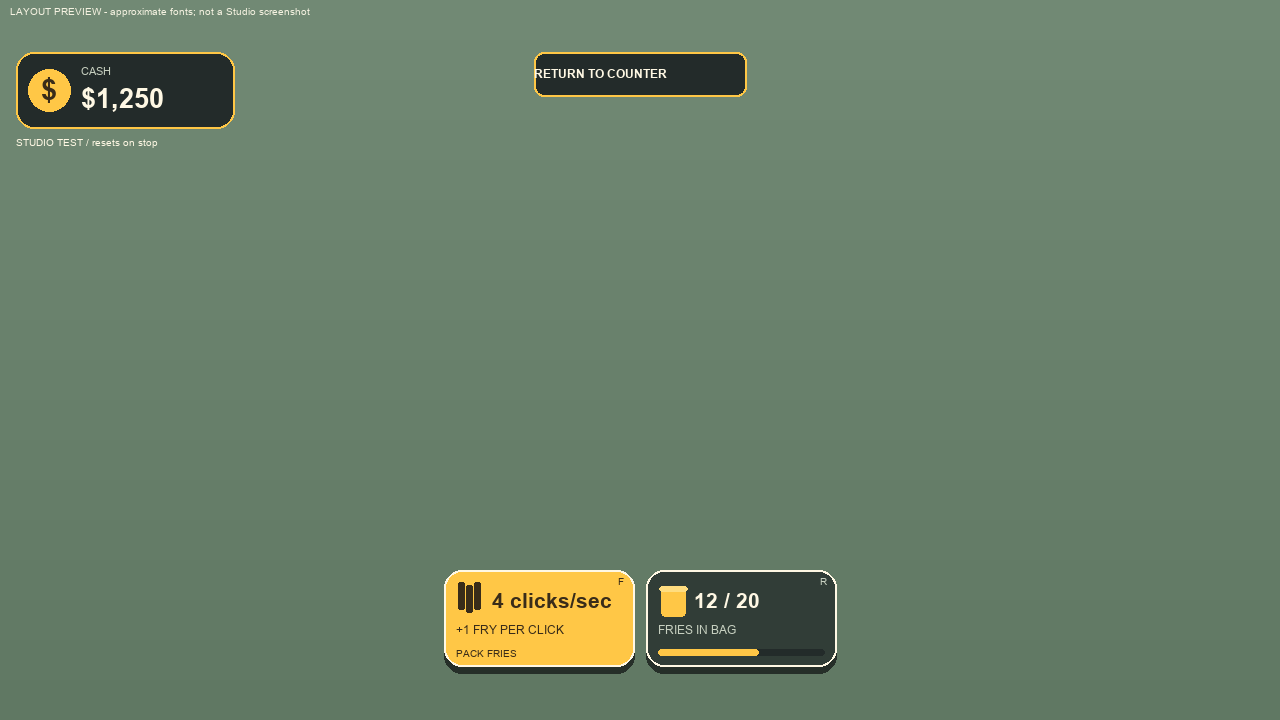
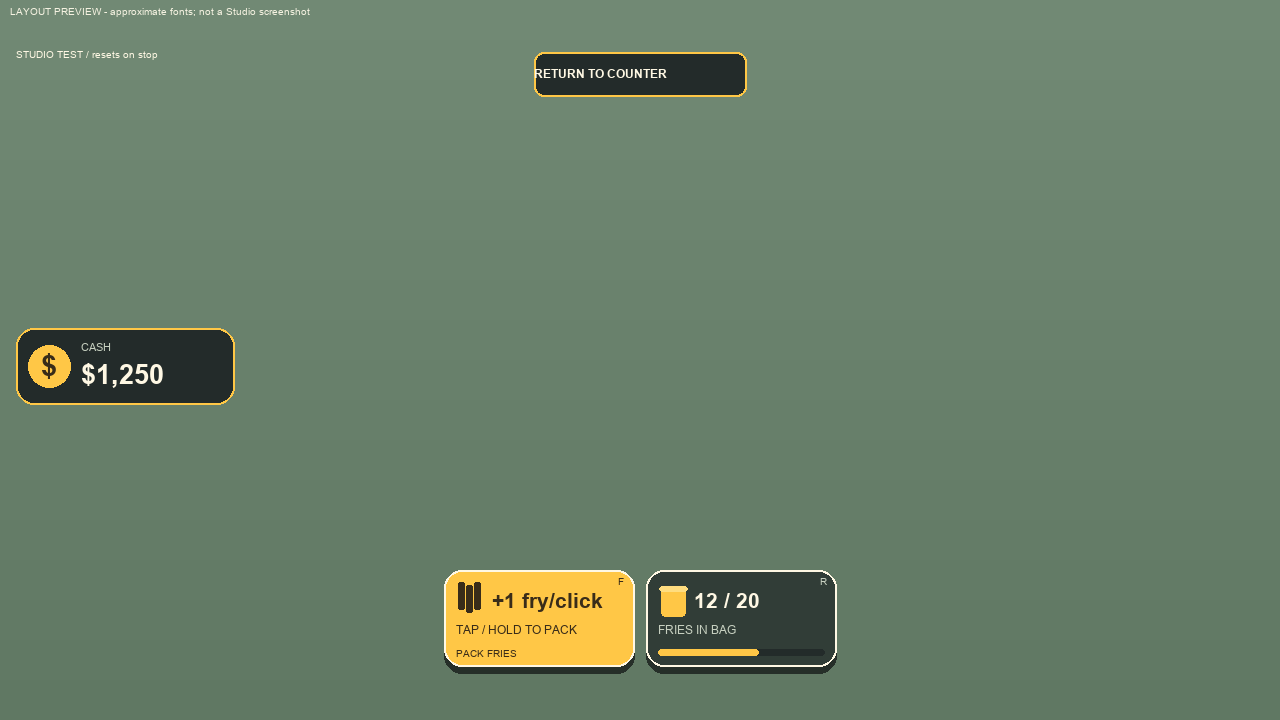
Made the UI more "smooth", added a boundary to better limit the playing field. Will now work on extending the gameplay features. Basic UI/UX is more or less settled, can be refined further on

Changed region(s): [[0.0, 0.0611, 0.1875, 0.2139], [0.0, 0.4583, 0.1875, 0.5806], [0.3438, 0.825, 0.4688, 0.8861]]

diff --git a/tools/build.py b/tools/build.py
@@ -43,7 +43,9 @@ def build():
     for parent, name in ((shared, "shared"), (server, "server"), (client, "client")):
         add_sources(parent, ROOT / "src" / name)
     item(root, "StarterGui", "StarterGui")
-    item(root, "Lighting", "Lighting")
+    lighting = item(root, "Lighting", "Lighting")
+    # Editor-only property: normal game scripts cannot set LightingStyle.
+    ET.SubElement(lighting.find("Properties"), "token", {"name": "LightingStyle"}).text = "1"  # Soft
     item(root, "Players", "Players")
     sound = item(root, "SoundService", "SoundService")
     ET.SubElement(sound.find("Properties"), "bool", {"name": "RespectFilteringEnabled"}).text = "true"
@@ -59,6 +61,7 @@ def build():
     assert sorted(actual) == sorted(expected), "Embedded source differs from source files"
     assert len(parsed.findall(".//Item[@class='Script']")) == 1
     assert len(parsed.findall(".//Item[@class='LocalScript']")) == 1
+    assert parsed.findtext(".//Item[@class='Lighting']/Properties/token[@name='LightingStyle']") == "1"
     print(f"Built {output.name}: {len(actual)} source files, XML and source round-trip verified.")
 
 

diff --git a/VALIDATION.md b/VALIDATION.md
@@ -2,11 +2,11 @@
 
 Validation date: 8 October 2026.
 
-Scope: the owner-approved UI/UX iteration on the working core loop. Base packing, fryer production after claiming, and $10 sales are unchanged.
+Scope: the owner-approved UI/UX iteration on the working core loop, including the smooth cartoon world pass. Base packing, fryer production after claiming, and $10 sales are unchanged.
 
 ## Automated results
 
-**40 tests passed, 0 failed.** All **27 Luau source/test files** compiled. The rebuilt place contains **24 game source files**. Output is recorded in TEST_RESULTS.txt.
+**41 tests passed, 0 failed.** All **27 Luau source/test files** compiled. The rebuilt place contains **24 game source files**. Output is recorded in TEST_RESULTS.txt.
 
 Coverage includes:
 
@@ -17,10 +17,17 @@ Coverage includes:
 - Session claims survive respawn and release on departure; a replacement player can claim the released plot.
 - Separate private state, owner-only work/teleport, basic fixed rates, and rejection of retired actions.
 - Six separated restaurant plots with inward-facing entrances, physical wall signage, and no fryer name labels.
-- Three permanent HUD actions, Cash formatting, hover labels, embedded bag capacity, full-bag sell state, E reserved for claiming, and R for selling.
+- Ceiling coverage/headroom and wall joins across all six restaurants; solid perimeter alignment, corner overlap, and clearance outside every plot.
+- Three permanent HUD actions, middle-left Cash placement/formatting, fries-per-click hover labels, embedded bag capacity, full-bag sell state, E reserved for claiming, and R for selling.
 - Calculated HUD bounds for 320x568, 390x844, 568x320, 844x390, and 1280x720.
 
-The builder verifies XML parsing and exact source round-tripping.
+The builder verifies XML parsing, exact source round-tripping, and the saved Soft LightingStyle setting.
+
+### Startup regression after the cartoon pass
+
+The owner reported missing restaurant claiming and HUD elements. The cartoon pass wrote LightingStyle from WorldBuilder at runtime, before the server created remotes or connected claiming. Roblox documents this as an editor-only property. The prior engine double accepted arbitrary property writes and missed this failure.
+
+The engine double now rejects runtime writes to editor-only lighting settings. Before the fix, the startup test failed at LightingStyle and FriesRemotes was absent, reproducing the broken startup path. After moving LightingStyle into the saved place builder and Rojo configuration, all 40 tests pass, including startup, claiming, client HUD creation, and fill/sell behavior. Studio verification of the rebuilt place remains pending.
 
 ## Visual layout review
 
@@ -28,7 +35,11 @@ Desktop, portrait-phone, and landscape-phone previews were generated from the ac
 
 These previews use approximate fonts and a neutral background. They are not Roblox screenshots and do not validate real engine layering, world appearance, Roblox mobile controls, or interaction.
 
+The subsequent world art pass replaces textured materials with SmoothPlastic, refreshes the colors, rounds plaza bushes, and applies Soft lighting with brighter ambient light and reduced reflections. It does not change the HUD, so the HUD previews were not regenerated for this pass. Compilation and mocked world construction are checked automatically; real lighting, surface appearance, and graphics-quality differences still need the Studio checks. No real-engine visual result is claimed.
+
 ## Remaining Studio checks
+
+The latest pass changes the plaza and walkways to brown, adds cream ceilings with colored roof caps, raises side walls to meet them, and encloses the map with solid hedge walls. Automated geometry checks cover containment and ceiling coverage, but ceiling camera behavior, interior brightness, and boundary collisions/jumping still require Studio playtesting.
 
 The project owner confirmed the preceding core version works. This new claiming/layout/HUD iteration has not been playtested by the agent in Roblox Studio. No real DataStore calls were made. Run docs/STUDIO_TESTS.md before accepting this iteration, especially simultaneous claims, mobile prompts, camera/walkability, and multiplayer ownership.
 
@@ -37,3 +48,6 @@ The project owner confirmed the preceding core version works. This new claiming/
 - Native keyboard/touch claiming prompts: https://create.roblox.com/docs/ui/proximity-prompts
 - Prompt properties/events: https://create.roblox.com/docs/reference/engine/classes/ProximityPrompt
 - Wall-bound text: https://create.roblox.com/docs/reference/engine/classes/SurfaceGui
+- Surface materials: https://create.roblox.com/docs/parts/materials
+- Soft lighting and environment settings: https://create.roblox.com/docs/reference/engine/classes/Lighting
+- Editor-only LightingStyle setting: https://create.roblox.com/docs/effects/light-sources

diff --git a/docs/STUDIO_TESTS.md b/docs/STUDIO_TESTS.md
@@ -5,6 +5,7 @@ The project owner confirmed the prior core version works. These checks cover the
 ## Arrival and claiming
 
 1. Reopen the rebuilt FriesGame.rbxlx and press Play. The restaurant district must appear without Output errors.
+   Confirm there is no LightingStyle permission error or infinite wait for FriesRemotes; the packing/selling buttons and middle-left Cash card must appear immediately. LightingStyle is stored in the place, not assigned by a running script.
 2. Arrive in the central plaza with no restaurant assigned. All six restaurant entrances should be available, with no floating fryer labels anywhere.
 3. Confirm packing, selling, and Return to Counter are inactive before claiming. No fries should accumulate before a claim.
 4. Walk to any available entrance. Press E, tap the native prompt on a phone, or use the displayed gamepad input. Confirm ownership appears on the building and you arrive at its counter.
@@ -18,19 +19,29 @@ The project owner confirmed the prior core version works. These checks cover the
 
 - Inspect all six restaurants, facing the central promenade in two rows of three.
 - Walk from the plaza into every entrance, around the counter, and back out. Check floor transitions, hedges, furniture, and camera clearance.
+- Check all six ceilings from inside and outside: walls should meet the ceiling, entrances must stay open, and the camera should remain usable when packing, walking, zooming, and returning to the counter. Check interior brightness on desktop and mobile.
+- Walk the entire outer boundary, including its four corners. Confirm it blocks walking off the map, has no gaps, and leaves space outside the restaurant plots. Check normal jumping against the boundary.
 - Confirm buildings feel separated and the central area remains open. Ask testers whether they can identify an available plot and understand where to go without instructions.
 - Confirm the title is on the physical mural wall, following the wall's perspective rather than facing the camera.
 - Confirm ownership plaques are readable nearby and no floating fryer/equipment name tags or old customer text bubbles return.
 - Verify no doors, shops, progression rewards, or other unrequested systems have been introduced.
 
+## Smooth cartoon world
+
+- Inspect the ground, paths, walls, hedges, tables, fryer, and bag up close. Surfaces should have flat colors without grass, masonry, wood, or metal grain.
+- Confirm the plaza and all connecting/entrance paths are brown, the plaza bushes are rounded, and the coral/mint restaurants remain easy to distinguish from the paths and green plots.
+- Check that the fryer, bag, fries, wall title, and ownership text remain readable in both sun and shadow, without harsh glare or washed-out colors.
+- Compare low and high graphics settings on desktop and a phone. Check moving-camera edge shimmer separately from surface texture; automated tests cannot validate engine antialiasing or shadow rendering.
+- Walk through the district and repeat a fill/sell cycle. Review the actual Play-mode appearance with the owner before adding more art detail.
+
 ## Action buttons and Cash
 
-1. The gold packing button displays the maximum rate of 4 clicks/sec. Hover/select it to see Click. Touch users must retain a visible tap/hold packing hint.
+1. The gold packing button highlights +1 fry/click. Hover/select it to see Click with the yield underneath. The maximum click rate should not appear. Touch users must retain a visible tap/hold packing hint.
 2. Click, hold the button, and hold F. Each should fill the bag at the same existing rates. The basic fryer still adds 0.5 fries/sec after claiming, including while away.
 3. The sell button shows fries/capacity and a progress bar before full. Check empty, partially filled, and nearly full states.
 4. At 20 fries it should become green and read Sell Bag with +$10 Cash. Sell using the button and R. E must only handle claiming and never sell a bag.
 5. Confirm Cash increases by exactly $10, the bag clears, and no Sold message appears underneath the buttons. Repeat rapidly; there must be no duplicate payment.
-6. Check the Cash card, coin symbol, and comma-grouped amount. Verify large amounts fit the card.
+6. Check the middle-left Cash card, coin symbol, and comma-grouped amount, including clearance from the bottom actions on short screens. Verify large amounts fit the card.
 7. Walk away from the counter with a full bag: selling must be disabled and the return instruction should be clear. Return to Counter must target the player's own restaurant.
 8. Confirm useful errors appear briefly near the top, then clear, rather than obscuring the bottom actions.
 9. Confirm Fold, Upgrades, Delivery, Index, and Inventory remain absent, and Q does nothing.

diff --git a/README.md b/README.md
@@ -21,8 +21,10 @@ Develop in small, reviewable iterations. Prove the basic functionality works bef
 - Players enter the central plaza without an assigned restaurant, walk to an available entrance, and press E (or tap the proximity prompt) to claim it.
 - Claiming requires a loaded profile, a living nearby character, an unoccupied plot, and no existing claim. One player owns one restaurant per session; leaving frees it.
 - Six spacious restaurant plots face a central promenade. Ownership is shown on the building; the title is wall art. Never add floating fryer/equipment name tags, now or in future iterations.
-- Packing shows its maximum click rate inside the button and changes to Click on hover/focus. Selling shows bag capacity/progress until full, then Sell Bag and its Cash value.
-- Cash has a visible card, coin symbol, and grouped amount. Successful sales update the card and reset the bag without a bottom message.
+- The world uses smooth, untextured surfaces, bright cartoon colors, rounded plaza bushes, and soft lighting. Check the result in Studio before accepting this visual pass.
+- Brown central paths connect to brown restaurant walkways. Every restaurant has a high ceiling with a colored roof trim, and a continuous solid hedge boundary encloses the playing area.
+- Packing highlights fries per click (currently +1 fry/click) and changes to Click on hover/focus, with the yield retained below. The internal click-rate limit is not shown to players. Selling shows bag capacity/progress until full, then Sell Bag and its Cash value.
+- Cash has a visible card at the middle left, with a coin symbol and grouped amount. On short landscape screens it lifts enough to clear the action buttons. Successful sales update the card and reset the bag without a bottom message.
 - Clicking, holding the button, or holding F adds fries at the player's counter.
 - After claiming, the basic fryer retains its existing online rate of 0.5 fries per second.
 - A bag stops filling at 20 fries.
@@ -35,12 +37,16 @@ Automated checks alone do not finish the iteration. The new claiming/layout/HUD 
 
 Folding, Upgrades, Delivery, Index, and Inventory have been removed from the running game and source modules. Their connected bonus systems—Tickets, random fry variants, discovery rewards, order rewards, and Lunch Rush—are also outside this iteration. They are possible future backlog items, not a commitment to implement them. There are no placeholder menus or active background rewards for these systems.
 
+**Future visual refinement:** replace the current simple fry and bag symbols with more recognizable fries and bag artwork in an agreed later iteration. Keep the current symbols for now.
+
+**World art direction:** aim for a bright, smooth cartoon feel inspired by Pet Simulator. Use SmoothPlastic for code-built surfaces rather than grainy grass, concrete, brick, wood, or metal textures. Favor clear color blocks, warm brown paths, coral/mint restaurants with cream ceilings, and soft lighting with restrained reflections. Solid perimeter hedges frame the district. Detailed rounded restaurant/fryer models remain a later art iteration. No manual Studio asset creation is needed for this pass.
+
 ## Open and play
 
 1. Open **FriesGame.rbxlx** in Roblox Studio using **File > Open from File**.
 2. Press **Play**. The restaurant appears when the server starts.
 3. Walk to a free restaurant entrance and press **E**, or tap the entrance prompt on touch devices. Claiming puts you at its counter.
-4. Hold or tap the gold packing button at the bottom centre. It displays **4 clicks/sec** (the maximum rate) and changes to **CLICK** on hover or selection. Its packing hint stays visible for touch users.
+4. Hold or tap the gold packing button at the bottom centre. It displays **+1 fry/click** and changes to **CLICK** on hover or selection, with the fries-per-click value shown underneath. Its packing hint stays visible for touch users.
 5. The adjacent button shows **fries / capacity** and a progress bar. When full, it turns green and reads **SELL BAG +$10**. Selling requires proximity to your own counter.
 6. Use **RETURN TO COUNTER** at the top to return to your claimed restaurant. It is disabled before you claim.
 

diff --git a/docs/GAME_RULES.md b/docs/GAME_RULES.md
@@ -24,7 +24,7 @@ There are no random variants, folding bonuses, upgrades, Tickets, or event rewar
 
 ## Controls
 
-The packing and selling cards remain at the bottom centre. Packing shows up to 4 clicks/sec and changes to Click on hover/selection. The sell card shows capacity and progress until full, then Sell Bag and +$10 Cash. The Cash card updates directly after a sale; there is no sold-message toast.
+The packing and selling cards remain at the bottom centre. Packing highlights +1 fry/click and changes to Click on hover/selection, retaining the yield underneath. The internal rate limit is not displayed. The sell card shows capacity and progress until full, then Sell Bag and +$10 Cash. The Cash card updates directly after a sale; there is no sold-message toast.
 
 Return to Counter stays at the top and is disabled before claiming. Keyboard shortcuts are E for claiming, F for packing, and R for selling. The Sell button is disabled until a full bag is ready at the player's own counter; the server independently enforces that rule.
 
